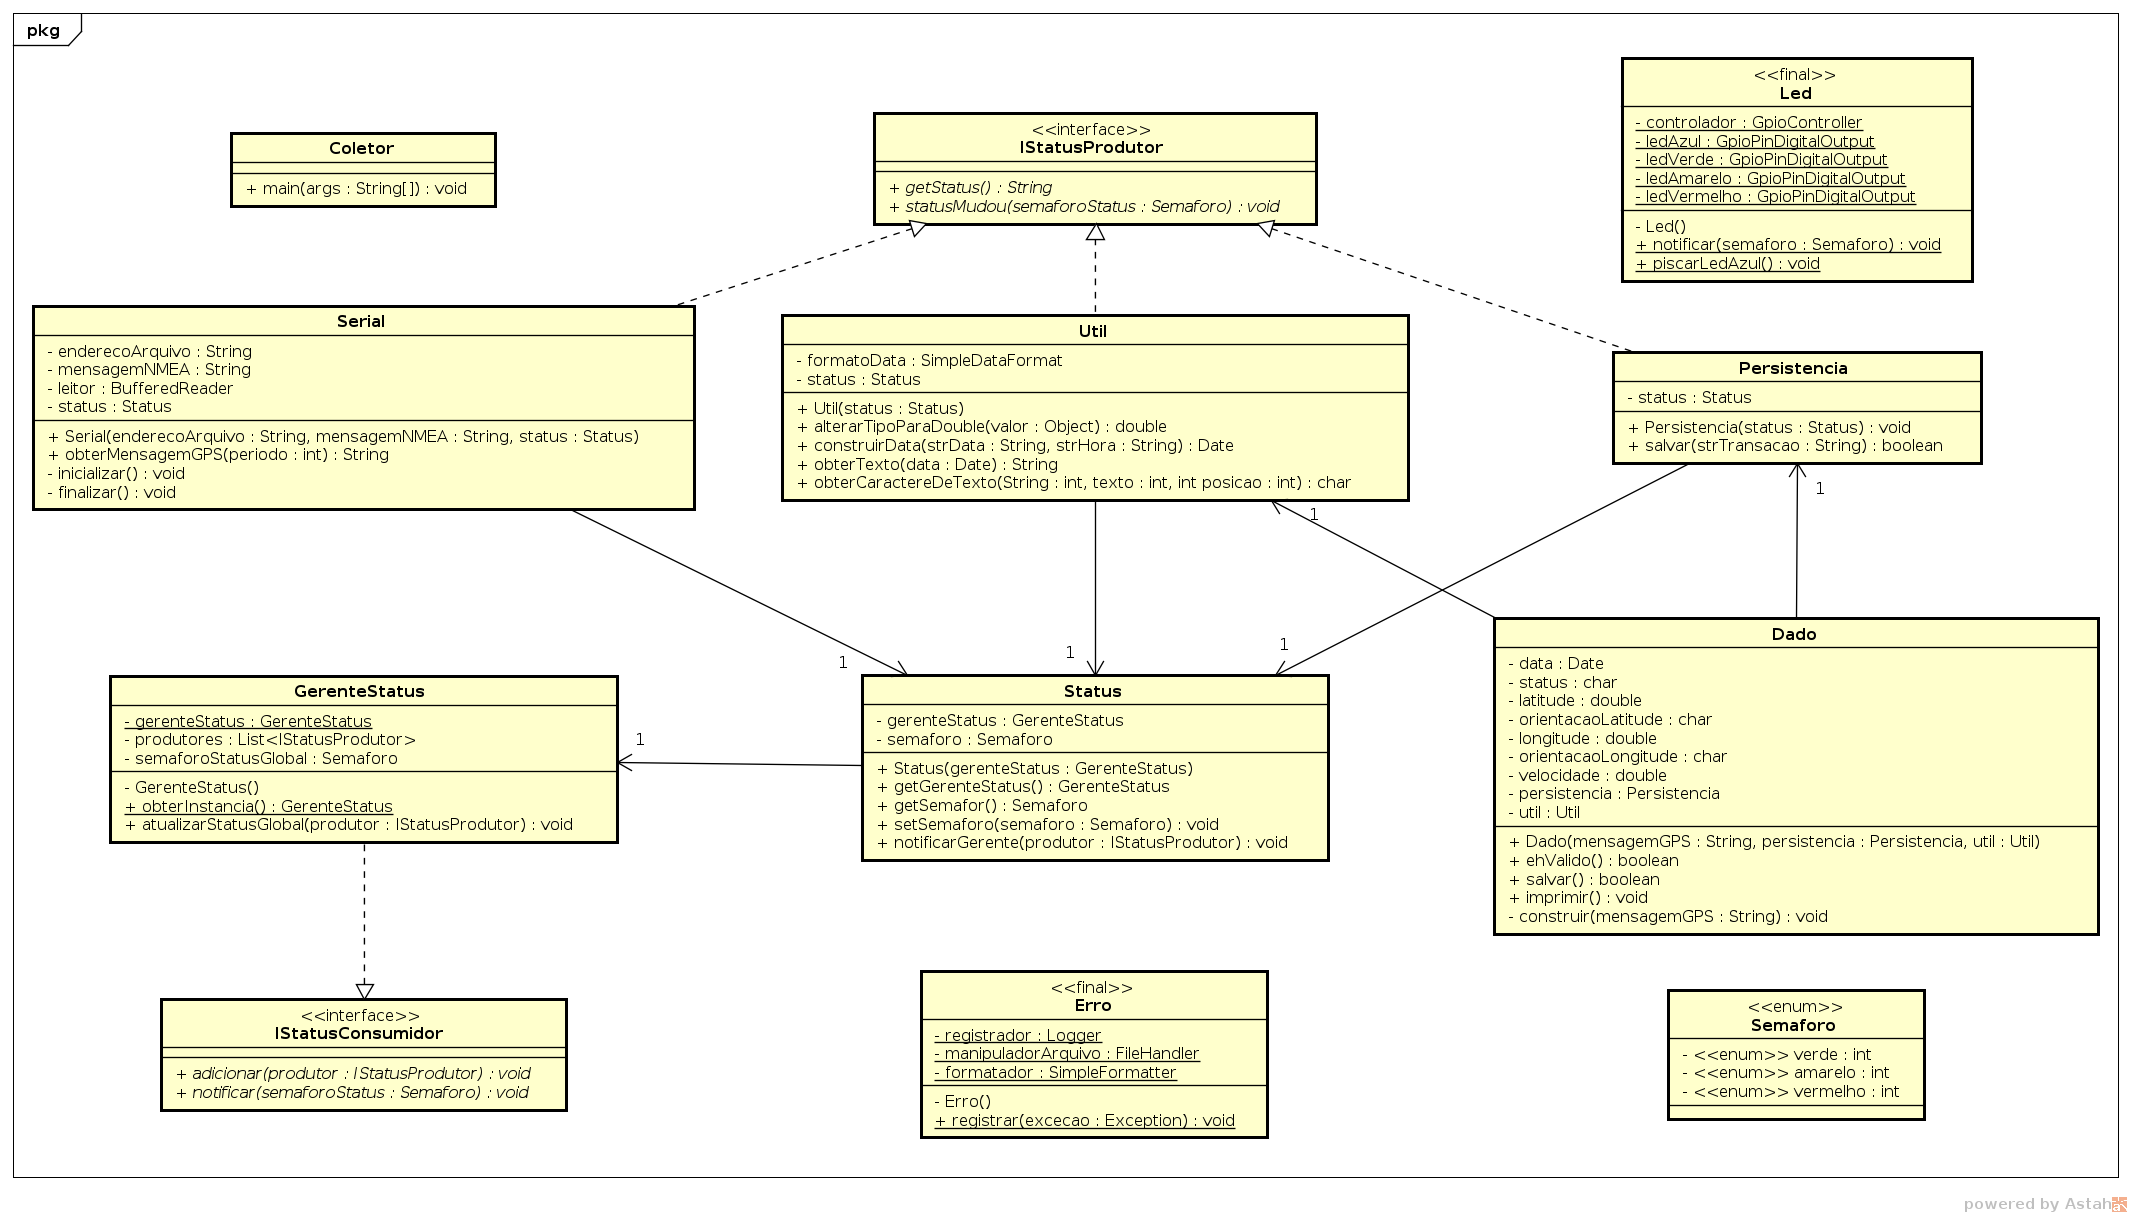
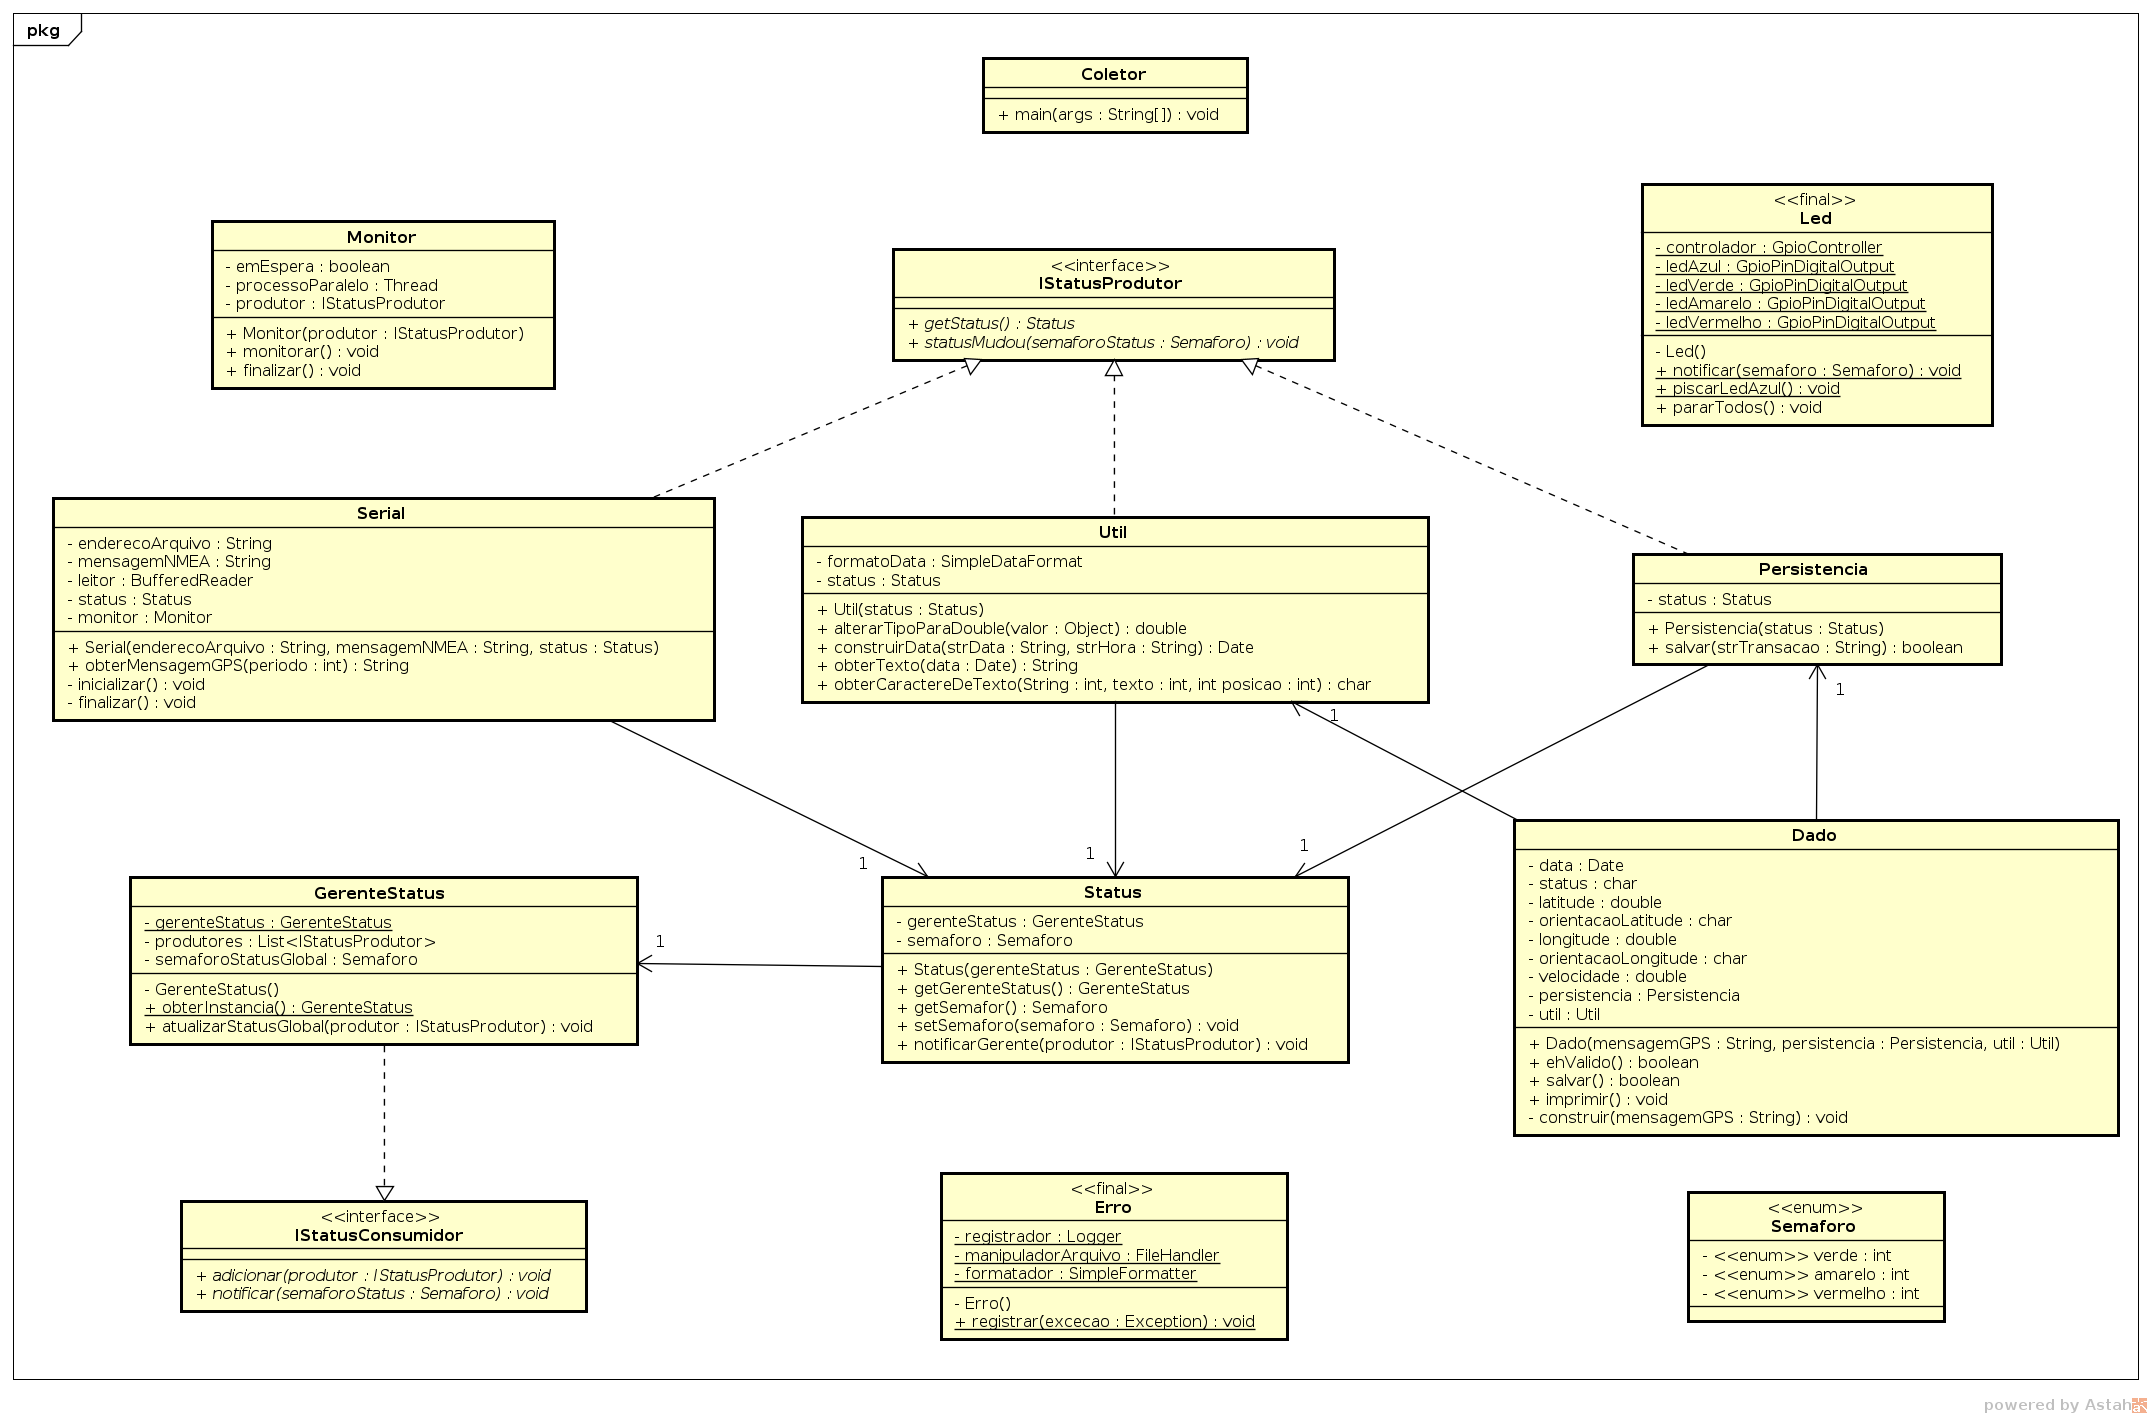
atualização do diagrama de classes

diff --git a/imp/coletor_gps/Monitor.java b/imp/coletor_gps/Monitor.java
@@ -3,7 +3,7 @@ package coletor_gps;
 class Monitor
 {
 	private volatile boolean emEspera;
-	private Thread thread;
+	private Thread processoParalelo;
 	private IStatusProdutor produtor;
 
 	public Monitor(IStatusProdutor produtor)
@@ -14,7 +14,7 @@ class Monitor
 
 	public void monitorar()
 	{
-		thread = new Thread(new Runnable()
+		processoParalelo = new Thread(new Runnable()
 		{
 			@Override
 			public void run()
@@ -33,7 +33,7 @@ class Monitor
 			}
 		});
 		emEspera = true;
-		thread.start();
+		processoParalelo.start();
 	}
 
 	public void finalizar()
@@ -41,7 +41,7 @@ class Monitor
 		try
 		{
 			emEspera = false;
-			thread.join();
+			processoParalelo.join();
 		}
 		catch (InterruptedException excecao)
 		{
